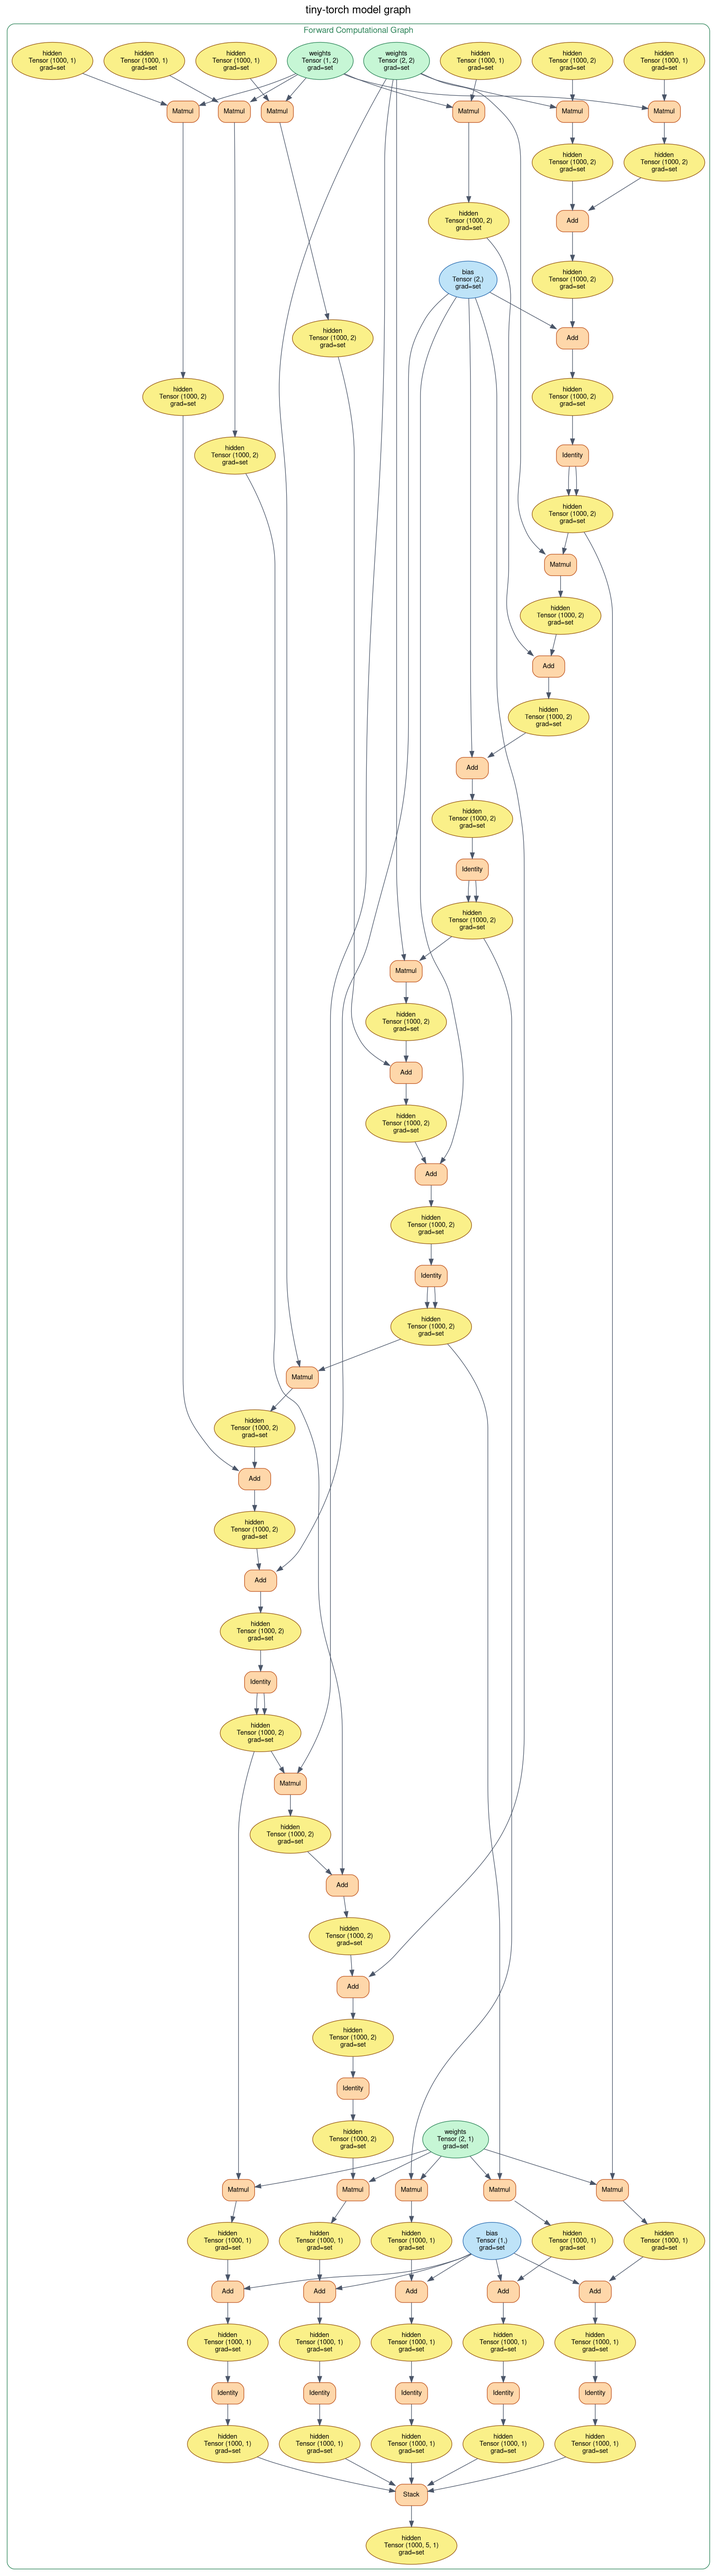
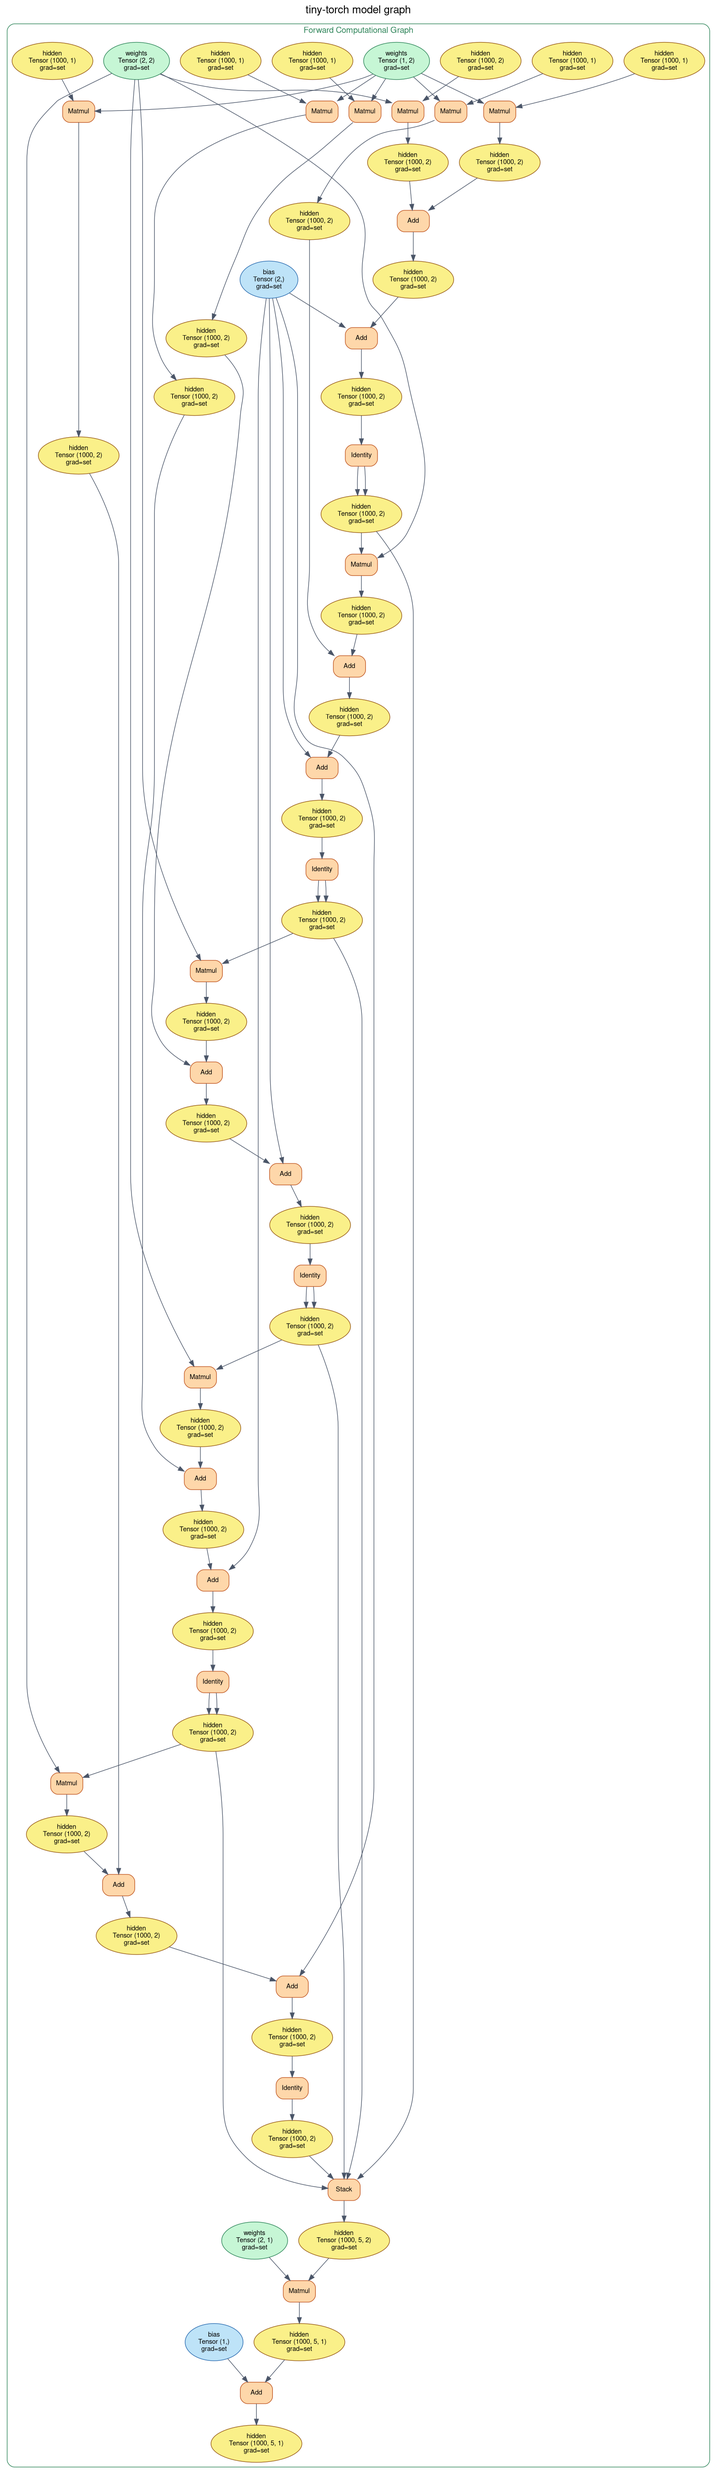
refactoring rnn arch

diff --git a/thorcino/layers/rnn.py b/thorcino/layers/rnn.py
@@ -9,35 +9,35 @@ class RNN(Layer):
     def __init__(
         self, 
         in_feature: int,
-        out_feature: int,
+        #out_feature: int,
         hidden_units: int,
         activation_h: Layer,
-        activation_o: Layer,
+        #activation_o: Layer,
         bias_hidden: bool = True,
-        bias_out: bool = True,
+        #bias_out: bool = True,
     ):
         self.training = True
         self.in_feature = in_feature
-        self.out_feature = out_feature
+        #self.out_feature = out_feature
         self.hidden_units = hidden_units
         self.activation_h = activation_h
-        self.activation_o = activation_o
+        #self.activation_o = activation_o
 
         scale = np.sqrt(1.0 / in_feature)
         weights_data = np.random.randn(in_feature, hidden_units) * scale
         self.weights_input = Tensor(weights_data, role=WEIGHTS_ROLE)
 
-        scale = np.sqrt(1.0 / hidden_units)
+        """scale = np.sqrt(1.0 / hidden_units)
         weights_data = np.random.randn(hidden_units, out_feature) * scale
-        self.weights_output = Tensor(weights_data, role=WEIGHTS_ROLE)
+        self.weights_output = Tensor(weights_data, role=WEIGHTS_ROLE)"""
 
         weights_data = np.random.randn(hidden_units, hidden_units) * scale
         self.weighs_hidden = Tensor(weights_data, role=WEIGHTS_ROLE)
         
-        if bias_out:
+        """if bias_out:
             self.bias_out = Tensor(np.zeros(out_feature), role=BIAS_ROLE)
         else:
-            self.bias_out = None
+            self.bias_out = None"""
 
         if bias_hidden:
             self.bias_hidden = Tensor(np.zeros(hidden_units), role=BIAS_ROLE)
@@ -46,7 +46,8 @@ class RNN(Layer):
 
     @override
     def __repr__(self) -> str:
-        return f"{type(self).__name__}(in_feature={self.in_feature}, out_feature={self.out_feature}, hidden_units={self.hidden_units}, bias_hidden={self.bias_hidden}, bias_out={self.bias_out})"
+        #return f"{type(self).__name__}(in_feature={self.in_feature}, out_feature={self.out_feature}, hidden_units={self.hidden_units}, bias_hidden={self.bias_hidden}, bias_out={self.bias_out})"
+        return f"{type(self).__name__}(in_feature={self.in_feature}, hidden_units={self.hidden_units}, bias_hidden={self.bias_hidden}))"
 
     @override
     def forward(self, X: Tensor) -> Tensor:
@@ -84,25 +85,27 @@ class RNN(Layer):
                 Ht += self.bias_hidden
             Ht = self.activation_h(Ht)
 
-            out = Ht @ self.weights_output
+            """out = Ht @ self.weights_output
             if self.bias_out is not None:
                 out += self.bias_out
             out = self.activation_o(out)
 
-            outs.append(out)
+            outs.append(out)"""
+            outs.append(Ht)
 
         return Tensor.stack(outs, axis=1)
     
     @property
     @override
     def parameters(self) -> list[Tensor]:
-        params = [self.weights_input, self.weighs_hidden, self.weights_output]
+        #params = [self.weights_input, self.weighs_hidden, self.weights_output]
+        params = [self.weights_input, self.weighs_hidden]
 
         if self.bias_hidden is not None:
             params.append(self.bias_hidden)
         
-        if self.bias_out is not None:
-            params.append(self.bias_out)
+        """if self.bias_out is not None:
+            params.append(self.bias_out)"""
 
         return params
 
@@ -112,13 +115,13 @@ class RNN(Layer):
 
         self.weights_input.requires_grad = True
         self.weighs_hidden.requires_grad = True
-        self.weights_output.requires_grad = True
+        #self.weights_output.requires_grad = True
 
         if self.bias_hidden is not None:
             self.bias_hidden.requires_grad = True
         
-        if self.bias_out is not None:
-            self.bias_out.requires_grad = True
+        """if self.bias_out is not None:
+            self.bias_out.requires_grad = True"""
 
     @override
     def eval(self) -> None:
@@ -126,10 +129,10 @@ class RNN(Layer):
 
         self.weights_input.requires_grad = False
         self.weighs_hidden.requires_grad = False
-        self.weights_output.requires_grad = False
+        #self.weights_output.requires_grad = False
 
         if self.bias_hidden is not None:
             self.bias_hidden.requires_grad = False
         
-        if self.bias_out is not None:
-            self.bias_out.requires_grad = False
+        """if self.bias_out is not None:
+            self.bias_out.requires_grad = False"""
